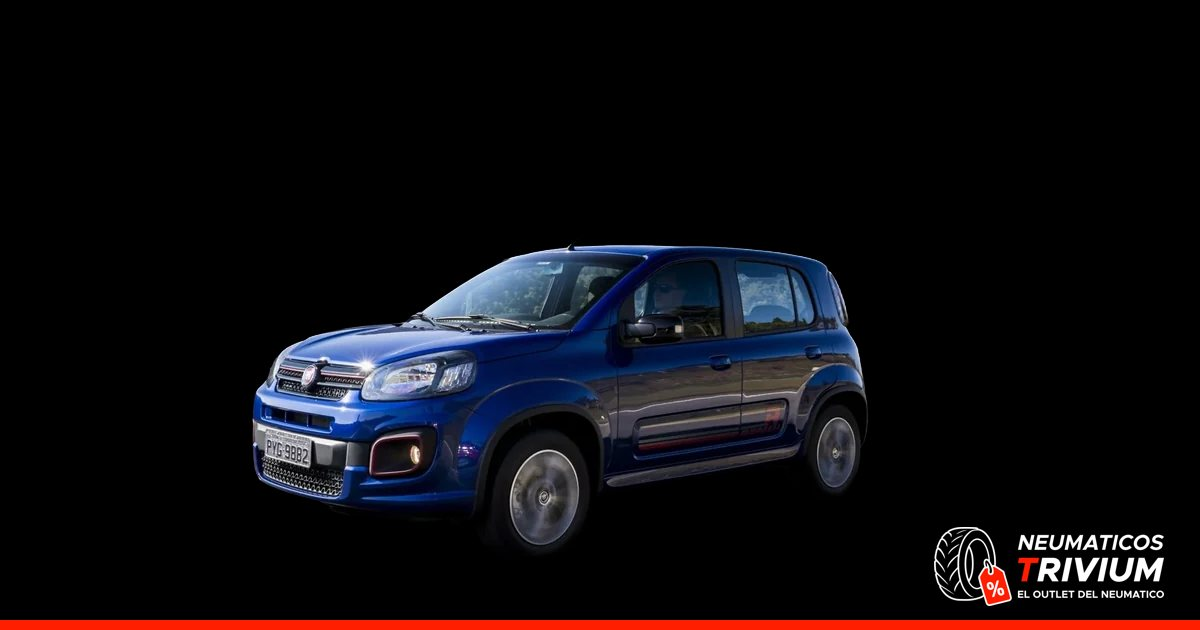
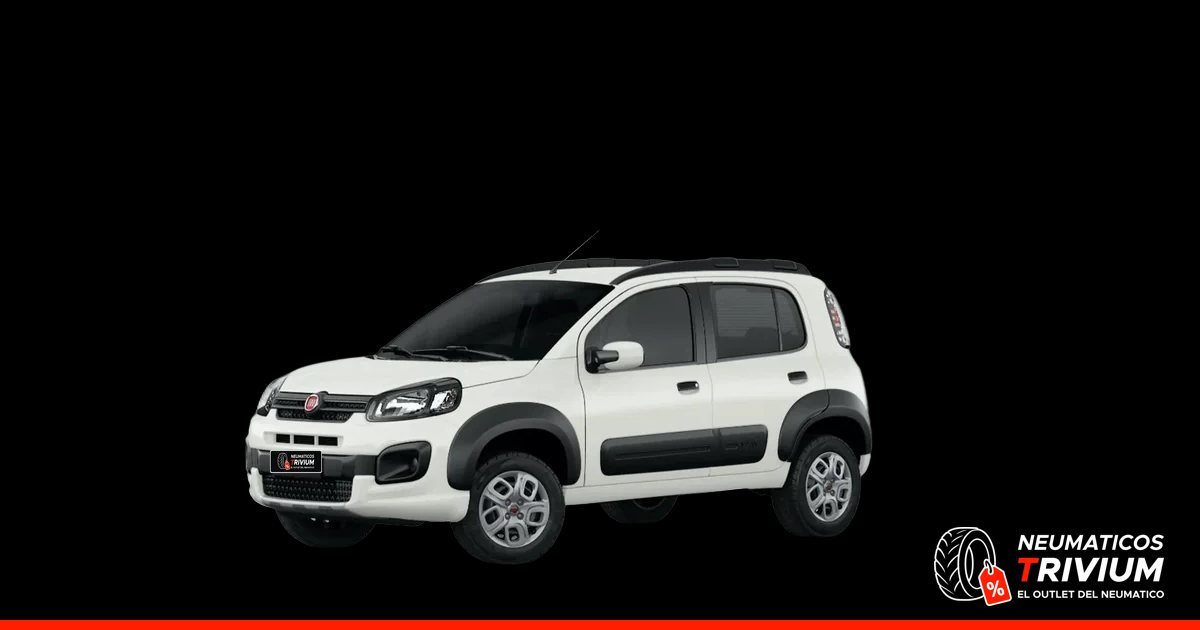
vehículos: fotos de Peugeot 206/307/308, VW Up!/Golf/Bora, Chevrolet Agile y Fiat Strada; nueva foto del Fiat Uno Way; patente Trivium

Changed region(s): [[0.185, 0.3619, 0.74, 0.9048]]

diff --git a/src/lib/vehicle-photos.ts b/src/lib/vehicle-photos.ts
@@ -35,6 +35,7 @@ export const VEHICLE_PHOTOS = new Set([
   "byd-song-pro",
   "changan-cs55",
   "chery-tiggo-8",
+  "chevrolet-agile",
   "chevrolet-aveo",
   "chevrolet-celta",
   "chevrolet-classic",
@@ -74,6 +75,7 @@ export const VEHICLE_PHOTOS = new Set([
   "fiat-pulse",
   "fiat-punto",
   "fiat-siena",
+  "fiat-strada",
   "fiat-titano",
   "fiat-toro",
   "fiat-uno",
@@ -142,9 +144,12 @@ export const VEHICLE_PHOTOS = new Set([
   "nissan-versa",
   "nissan-x-trail",
   "peugeot-2008",
+  "peugeot-206",
   "peugeot-207",
   "peugeot-208",
   "peugeot-3008",
+  "peugeot-307",
+  "peugeot-308",
   "peugeot-408",
   "peugeot-boxer",
   "peugeot-expert",
@@ -187,9 +192,11 @@ export const VEHICLE_PHOTOS = new Set([
   "toyota-sw4",
   "toyota-yaris",
   "volkswagen-amarok",
+  "volkswagen-bora",
   "volkswagen-fox",
   "volkswagen-gol",
   "volkswagen-gol-trend",
+  "volkswagen-golf",
   "volkswagen-nivus",
   "volkswagen-polo",
   "volkswagen-saveiro",
@@ -198,6 +205,7 @@ export const VEHICLE_PHOTOS = new Set([
   "volkswagen-taos",
   "volkswagen-tera",
   "volkswagen-tiguan",
+  "volkswagen-up",
   "volkswagen-vento",
   "volkswagen-virtus",
   "volkswagen-voyage",
